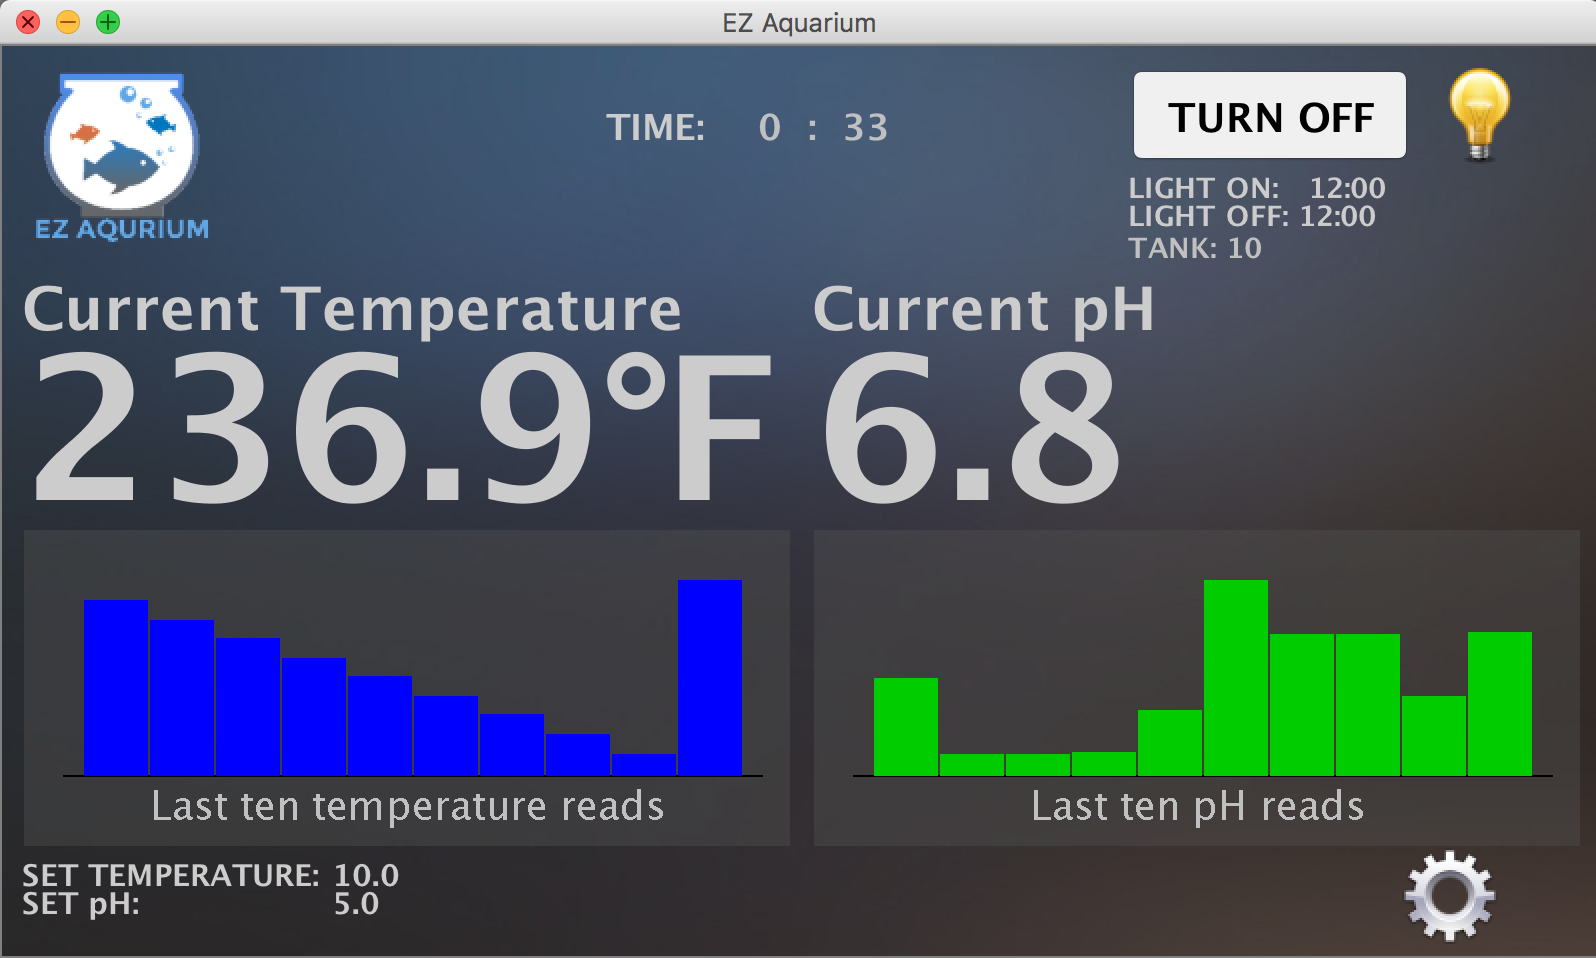
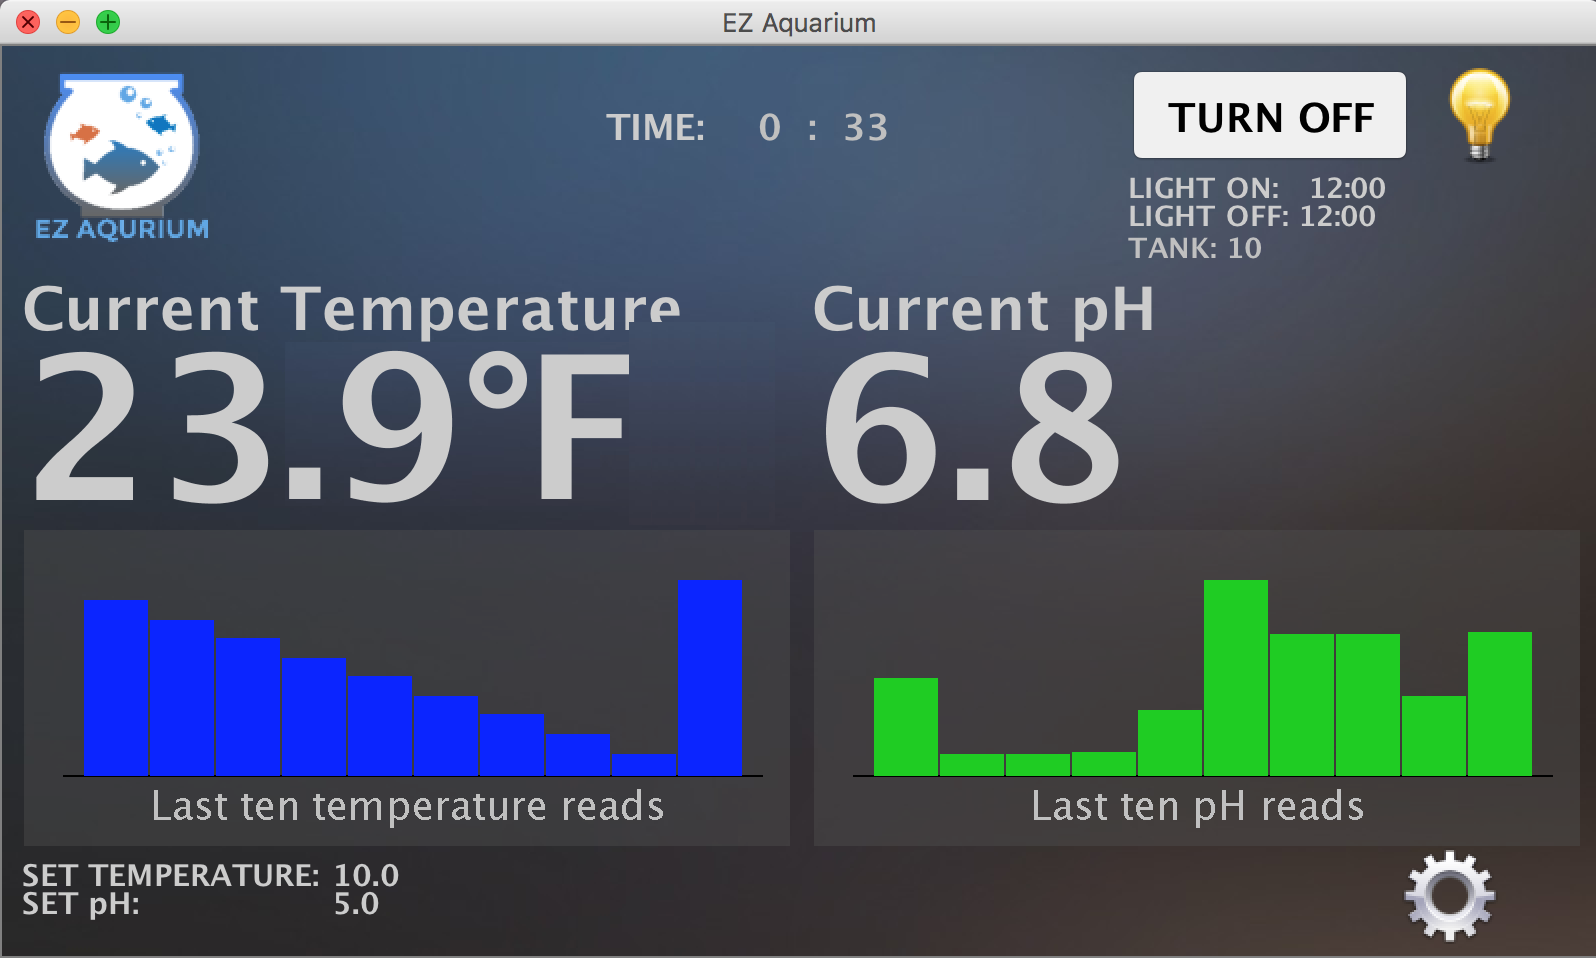
old branch

Changed region(s): [[0.0307, 0.6054, 0.4912, 0.8173], [0.5219, 0.6054, 0.9825, 0.8173], [0.1842, 0.333, 0.4912, 0.5449]]

diff --git a/fishprojectUI2.0/main.java b/fishprojectUI2.0/main.java
@@ -2251,8 +2251,8 @@ public class main extends JFrame {
                     
                     Thread.sleep(1000);
                     String text ="";
-                    String line;
-                    Process process_read2;
+
+                    Process process_read;
                     
                     int i = 0;
                     // removing panel
@@ -2266,17 +2266,13 @@ public class main extends JFrame {
                     Deck.revalidate();
 
                     while (true) {
-                        try {
-                            process_read2 = Runtime.getRuntime().exec("./temp");
-                            BufferedReader in = new BufferedReader(new InputStreamReader(process_read2.getInputStream()));
-                            temp = Float.parseFloat(in.readLine());
-                            process_read2 = Runtime.getRuntime().exec("python ph.py");
-                            in = new BufferedReader(new InputStreamReader(process_read2.getInputStream()));
-                            ph = Float.parseFloat(in.readLine());
-                        }   catch (Exception e) {
-
-                            e.printStackTrace();
-                        }
+                        
+                        /*process_read = Runtime.getRuntime().exec("./temp");
+                        BufferedReader in = new BufferedReader(new InputStreamReader(process_read.getInputStream()));
+                        temp = Float.parseFloat(in.readLine());
+                        process_read = Runtime.getRuntime().exec("python ph.py");
+                        in = new BufferedReader(new InputStreamReader(process_read.getInputStream()));
+                        ph = Float.parseFloat(in.readLine());*/
                         
                         Thread.sleep(3000);
                         if(LocalDateTime.now().getHour() < 12)	{
@@ -2373,12 +2369,11 @@ public class main extends JFrame {
 
                         if ((line = in.readLine()) != null) {
                             current_temp = Float.parseFloat(line);
-                            //current_temp = (float) ((float) current_temp * 1.800 + 32.0);
                             /*
     `                        * tempratuer tap Warning do not remove
                              * if removed reading will not update
                              */
-							//temp = current_temp; // 
+							temp = 23.9f;//current_temp; // 
                         }
 
                         /*
@@ -2404,7 +2399,7 @@ public class main extends JFrame {
             `                        * tempratuer tap Warning do not remove
                                      * if removed reading will not update
                                      */
-                                    temp = current_temp; // 
+                                    temp = 23.9f;// current_temp; // 
                                 }
                             }
                         }
@@ -2429,7 +2424,7 @@ public class main extends JFrame {
             `                * tempratuer tap Warning do not remove
                              * if removed reading will not update
                              */
-                            //ph = current_ph; // 
+                            ph = 6.8f;//current_ph; // 
                         }
 
                         /*
@@ -2457,7 +2452,8 @@ public class main extends JFrame {
             `                        * tempratuer tap Warning do not remove
                                      * if removed reading will not update
                                      */
-                                    //ph = current_ph; // 
+                                    //System.out.println(""+current_ph);
+                                    ph = 6.8f;//current_ph; // 
                                 }
                             } else {
                                 Runtime.getRuntime().exec("sudo ./setGPIO 13 1"); 
@@ -2480,7 +2476,7 @@ public class main extends JFrame {
             `                        * tempratuer tap Warning do not remove
                                      * if removed reading will not update
                                      */
-                                    //ph = current_ph; // 
+                                    ph = 6.8f;//current_ph; // 
                                 }
                             }
                         }
